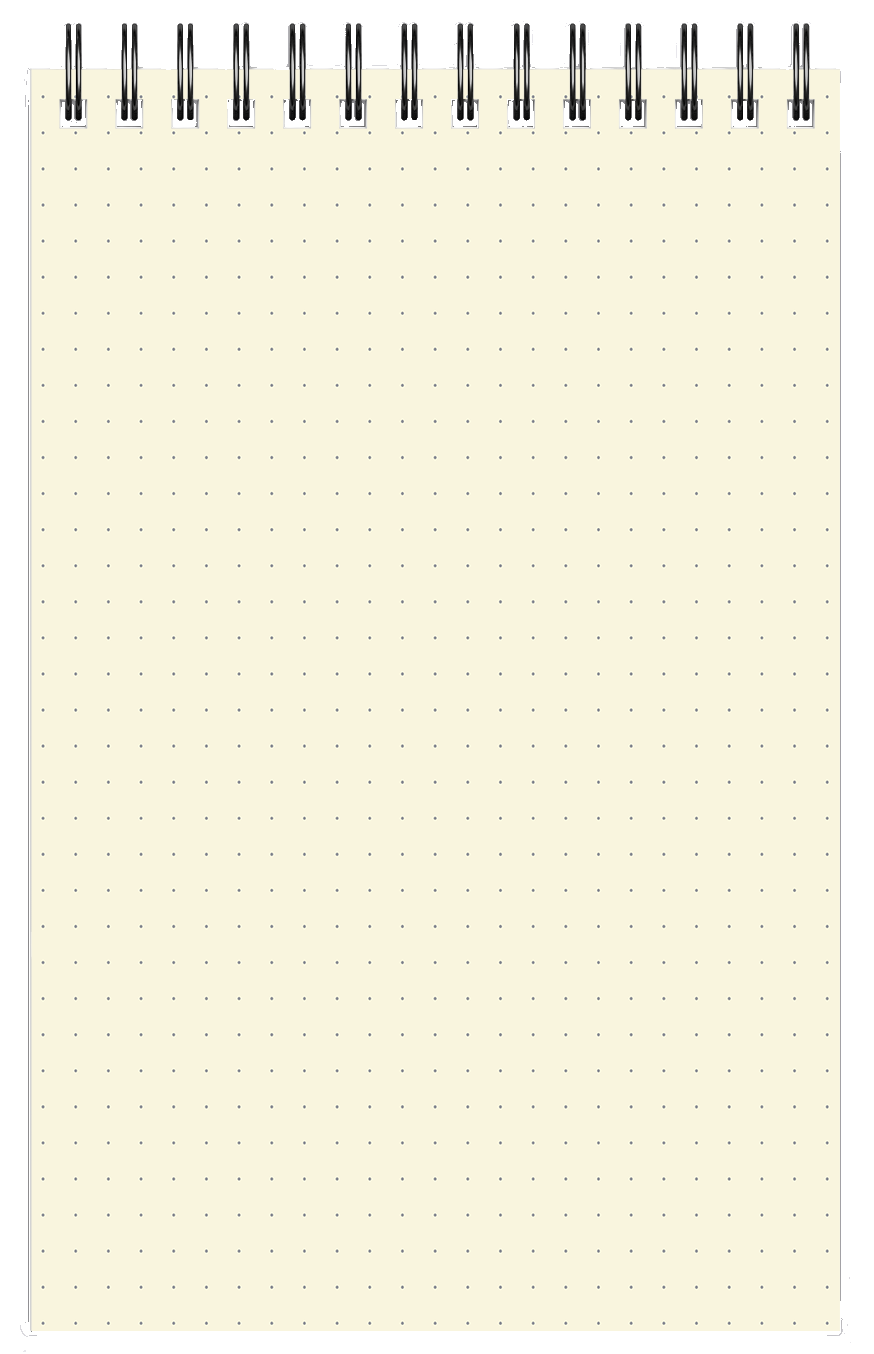
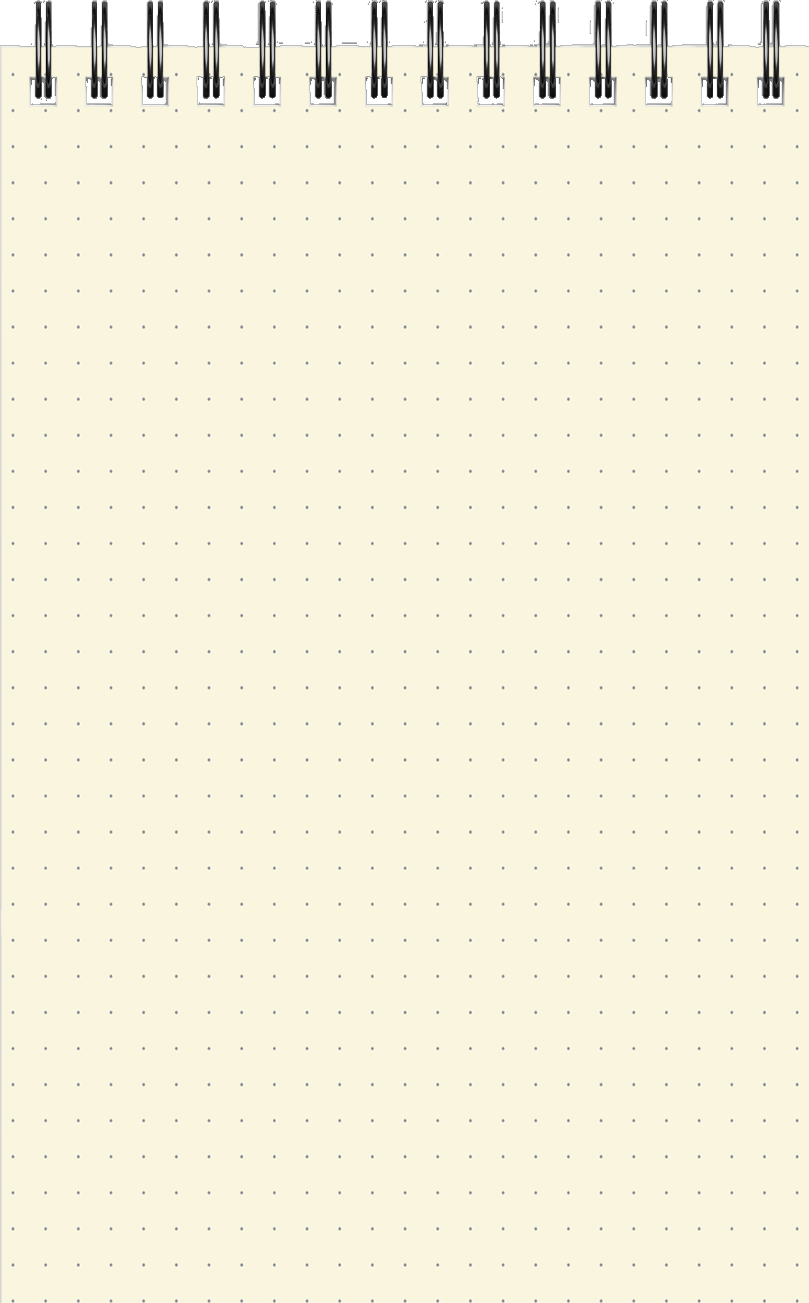
Add styles - background image, shopping list note bad, box shadows; grid layout

Changed region(s): [[0.0, 0.0, 1.0, 1.0]]

diff --git a/index.html b/index.html
@@ -5,10 +5,10 @@
     <meta http-equiv="X-UA-Compatible" content="IE=edge">
     <link href="https://cdn.jsdelivr.net/npm/bootstrap@5.1.3/dist/css/bootstrap.min.css" rel="stylesheet" integrity="sha384-1BmE4kWBq78iYhFldvKuhfTAU6auU8tT94WrHftjDbrCEXSU1oBoqyl2QvZ6jIW3" crossorigin="anonymous">
     <meta name="viewport" content="width=device-width, initial-scale=1.0">
-    <link rel="stylesheet" href="style.css">
+    <link rel="stylesheet" href="./src/style.css">
     <title>7-Day Meal Planner</title>
 </head>
-<body>
+<body class="container">
     <header class="card">
         <h1>7-Day Meal Planner</h1>
     </header>
@@ -39,38 +39,36 @@
         </div>
     </div>
     <div class="shopping">
-        <div class="card">
-            <h2>Shopping</h2>
-            <div class="form-check">
-                <input type="checkbox" value="" id="checkbox-1" class="form-check-input">
-                <label for="checkbox-1" class="form-check-label">
-                    Tomatoes
-                </label>
-            </div>
-            <div class="form-check">
-                <input type="checkbox" value="" id="checkbox-2" class="form-check-input">
-                <label for="checkbox-2" class="form-check-label">
-                    Onions
-                </label>
-            </div>
-            <div class="form-check">
-                <input type="checkbox" value="" id="checkbox-3" class="form-check-input">
-                <label for="checkbox-3" class="form-check-label">
-                    Bread
-                </label>
-            </div>
-            <div class="form-check">
-                <input type="checkbox" value="" id="checkbox-4" class="form-check-input">
-                <label for="checkbox-4" class="form-check-label">
-                    Milk
-                </label>
-            </div>
-            <div class="form-check">
-                <input type="checkbox" value="" id="checkbox-5" class="form-check-input">
-                <label for="checkbox-5" class="form-check-label">
-                    Eggs
-                </label>
-            </div>
+        <h2>Shopping</h2>
+        <div class="form-check">
+            <input type="checkbox" value="" id="checkbox-1" class="form-check-input">
+            <label for="checkbox-1" class="form-check-label">
+                Tomatoes
+            </label>
+        </div>
+        <div class="form-check">
+            <input type="checkbox" value="" id="checkbox-2" class="form-check-input">
+            <label for="checkbox-2" class="form-check-label">
+                Onions
+            </label>
+        </div>
+        <div class="form-check">
+            <input type="checkbox" value="" id="checkbox-3" class="form-check-input">
+            <label for="checkbox-3" class="form-check-label">
+                Bread
+            </label>
+        </div>
+        <div class="form-check">
+            <input type="checkbox" value="" id="checkbox-4" class="form-check-input">
+            <label for="checkbox-4" class="form-check-label">
+                Milk
+            </label>
+        </div>
+        <div class="form-check">
+            <input type="checkbox" value="" id="checkbox-5" class="form-check-input">
+            <label for="checkbox-5" class="form-check-label">
+                Eggs
+            </label>
         </div>
     </div>
 </body>

diff --git a/src/style.css b/src/style.css
@@ -1,0 +1,44 @@
+body {
+    background-image: url(./wood-bckgrnd.jpg);
+    background-size: cover;
+    margin: 0 auto;
+}
+
+.container {
+    margin-top: 1.5em;
+    display: grid;
+    grid-template-columns: 2fr 1fr;
+    grid-template-rows: 0.5fr 4fr;
+    grid-gap: 1em;
+}
+
+header {
+    grid-column: 1 / span 1;
+    grid-row: 1 / span 1;
+    text-align: center;
+    padding: 0.5em;
+    box-shadow: 3px 3px 10px -2px black;
+}
+
+.planner {
+    grid-column: 1 / span 1;
+    display: grid;
+    grid-template-columns: repeat(2, 1fr);
+    grid-template-rows: repeat(4, 1fr);
+    grid-gap: 1em;
+}
+
+.planner .card {
+   min-height: 10em;
+   box-shadow: 3px 3px 10px -2px black;
+}
+
+.shopping {
+    grid-column: 2 / span 1;
+    grid-row: 1 / span 2;
+    height: 100%;
+    background-image: url(./notepad_dotted_paper.png);
+    background-size: 100% 100%;
+    box-shadow: 3px 3px 10px -2px black;
+    padding: 70px 20px 0px 20px;
+}
